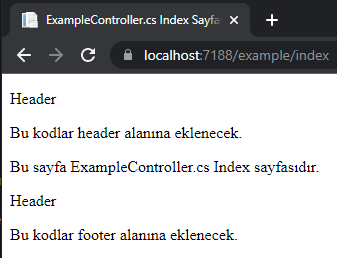
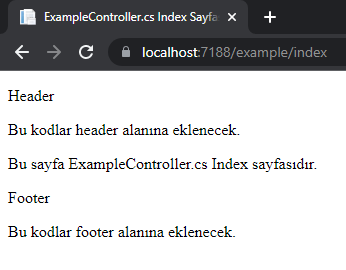
Update README.md

Changed region(s): [[0.0, 0.155, 1.0, 1.0], [0.0593, 0.031, 0.7122, 0.124], [0.7715, 0.031, 0.8309, 0.093]]

diff --git a/Notes/view/README.md b/Notes/view/README.md
@@ -1,10 +1,18 @@
 # View
 
-![Untitled](Untitled.png)
+![Untitled](View%208ac4223ec54a4df0a0bb8d1e510d8120/Untitled.png)
 
-![Untitled](Untitled%201.png)
+### Layout
 
-![Untitled](Untitled%202.png)
+Bir Web Sayfasında ortak alanları tanımladığımız yerdir.
+
+Genellikle content kısmı farklı sayfalarda değişir. Fakat sayfa içerisinde genelde Header, Menu ve Footer aynı kalır. 
+
+Her sayfada Header, Menu ve Footer gibi alanları tekrar tekrar tanımlamak yerine Layout kullanılır.
+
+![Untitled](View%208ac4223ec54a4df0a0bb8d1e510d8120/Untitled%201.png)
+
+![Untitled](View%208ac4223ec54a4df0a0bb8d1e510d8120/Untitled%202.png)
 
 ```html
 <!-- _Layout.cshtml -->
@@ -76,7 +84,7 @@
 
 ### Farklı Layout Kullanma
 
-![Untitled](Untitled%203.png)
+![Untitled](View%208ac4223ec54a4df0a0bb8d1e510d8120/Untitled%203.png)
 
 ```html
 <!-- ExampleLayout.cshtml -->
@@ -141,19 +149,19 @@ namespace MyAspNetCoreApp.Web.Controllers
 </div>
 ```
 
-![Untitled](Untitled%204.png)
+![Untitled](View%208ac4223ec54a4df0a0bb8d1e510d8120/Untitled%204.png)
 
 ---
 
 ### Layout Kullanmayan Sayfa
 
-![Untitled](Untitled%205.png)
+![Untitled](View%208ac4223ec54a4df0a0bb8d1e510d8120/Untitled%205.png)
 
-![Untitled](Untitled%206.png)
+![Untitled](View%208ac4223ec54a4df0a0bb8d1e510d8120/Untitled%206.png)
 
 [https://www.notion.so](https://www.notion.so)
 
-![Untitled](Untitled%207.png)
+![Untitled](View%208ac4223ec54a4df0a0bb8d1e510d8120/Untitled%207.png)
 
 ```csharp
 // NoLayout.cshtml
@@ -179,7 +187,7 @@ namespace MyAspNetCoreApp.Web.Controllers
 </html>
 ```
 
-![Untitled](Untitled%208.png)
+![Untitled](View%208ac4223ec54a4df0a0bb8d1e510d8120/Untitled%208.png)
 
 ---
 
@@ -209,7 +217,7 @@ namespace MyAspNetCoreApp.Web.Controllers
     </div>
 
     <footer>
-        <p>Header</p>
+        <p>Footer</p>
         @await RenderSectionAsync("footer", required: false)
     </footer>
    
@@ -239,4 +247,31 @@ namespace MyAspNetCoreApp.Web.Controllers
 </div>
 ```
 
-![Untitled](Untitled%209.png)
+![Untitled](View%208ac4223ec54a4df0a0bb8d1e510d8120/Untitled%209.png)
+
+# ****Partial View****
+
+```csharp
+// <partial name="_LoginPartialView" />
+// @await Html.PartialAsync("_LoginPartialView")
+
+//önerilmez
+// @Html.Partial("_LoginPartialView") 
+```
+
+![Untitled](View%208ac4223ec54a4df0a0bb8d1e510d8120/Untitled%2010.png)
+
+![Untitled](View%208ac4223ec54a4df0a0bb8d1e510d8120/Untitled%2011.png)
+
+![Untitled](View%208ac4223ec54a4df0a0bb8d1e510d8120/Untitled%2012.png)
+
+![Untitled](View%208ac4223ec54a4df0a0bb8d1e510d8120/Untitled%2013.png)
+
+![Untitled](View%208ac4223ec54a4df0a0bb8d1e510d8120/Untitled%2014.png)
+
+<aside>
+💡 Partial View ‘ler sadece istenilen sayfalara eklenirler. O nedenle aşağıdaki sayfaya eklemediğimiz için orada görünmüyor. Örnek olarak, biz login sayfasını login yapıldıktan sonra görmek istemeyiz bu nedenle Login işlemi için Partial View kullanabiliriz. Bu sayede istediğimiz sayfaya bu alanı ekleyebiliriz.
+
+</aside>
+
+![Untitled](View%208ac4223ec54a4df0a0bb8d1e510d8120/Untitled%2015.png)
